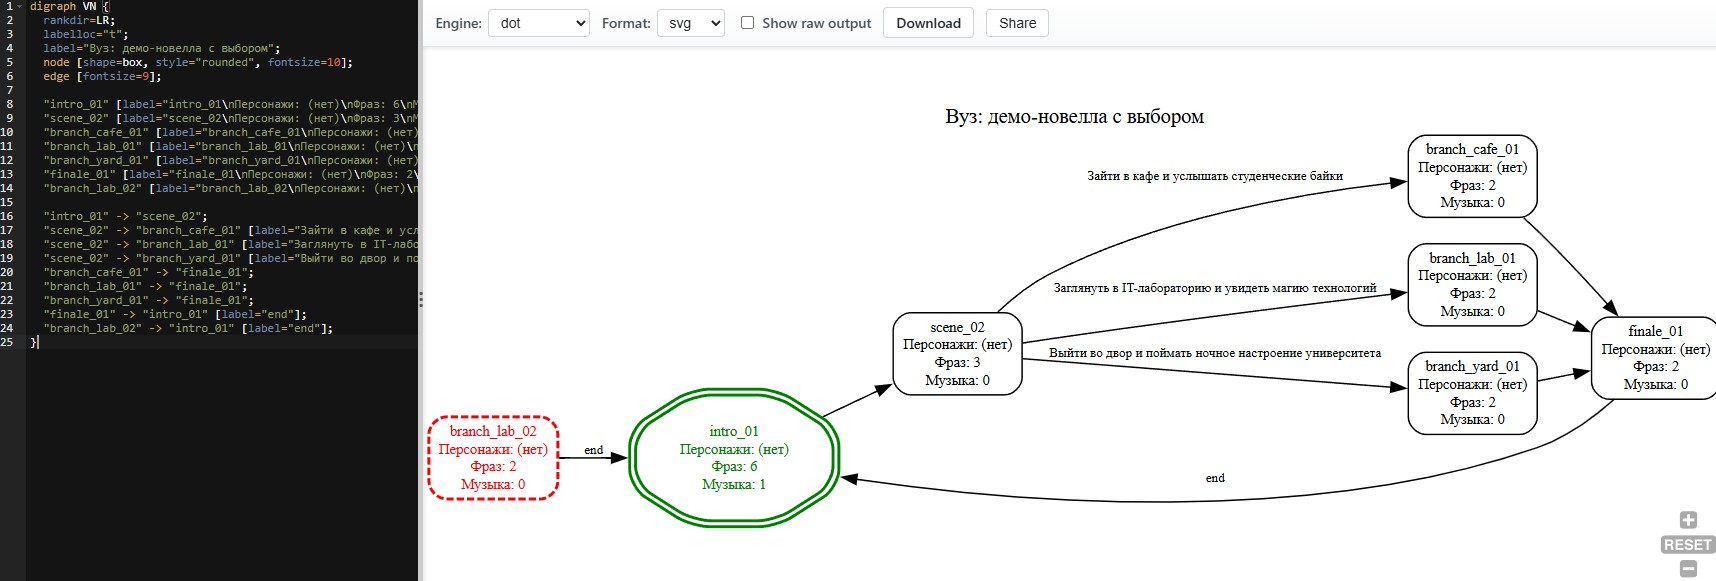
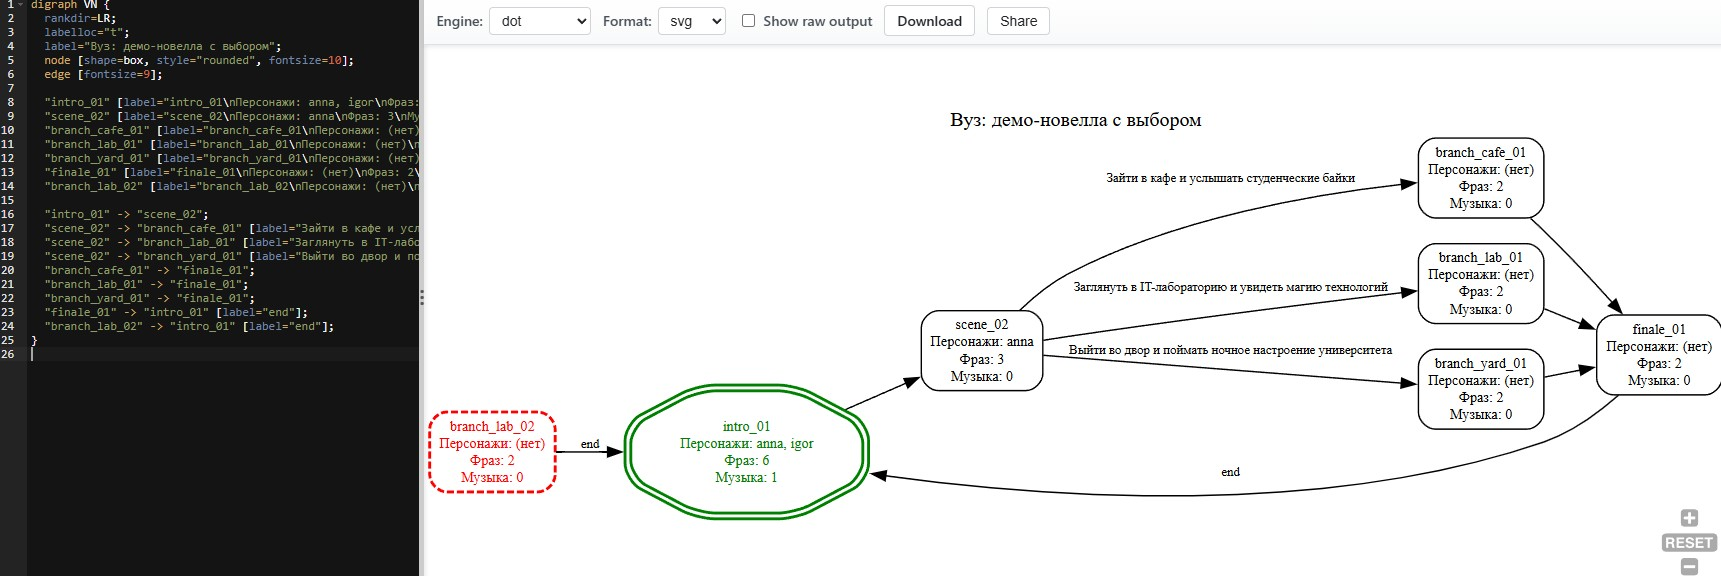
Исправлено отсутсвие указания персонажей на графе. Обновлены скрины для github

diff --git a/engine.js b/engine.js
@@ -2617,6 +2617,7 @@ function collectEnvironmentInfo() {
       if (!scene || !scene.id) continue;
 
       var actions = scene.actions || [];
+      console.log('[DOT scene start]', scene.id, actions);
 
       // --- метрики вершины ---
       var charSet = {};
@@ -2632,8 +2633,16 @@ function collectEnvironmentInfo() {
         if (!act || !act.type) continue;
 
         if (act.type === "char") {
-          var chId = extractAliasId(act.src, "ch");
-          if (chId) charSet[chId] = true;
+          console.log('[DOT char action]', {
+            sceneId: scene.id,
+            act: act,
+            charId: act.charId
+          });
+
+          if (act.charId) {
+            charSet[act.charId] = true;
+            console.log('[DOT char added]', scene.id, Object.keys(charSet));
+          }
         }
 
         if (act.type === "say") sayCount++;
@@ -2684,11 +2693,24 @@ function collectEnvironmentInfo() {
     for (var n = 0; n < nodes.length; n++) {
       var node = nodes[n];
       var chars = node.characters.length ? node.characters.join(", ") : "(нет)";
+
+      console.log('[DOT node chars]', {
+        nodeId: node.id,
+        characters: node.characters,
+        charsText: chars
+      });
+
       var label =
         node.id + "\\n" +
         "Персонажи: " + chars + "\\n" +
         "Фраз: " + node.phraseCount + "\\n" +
         "Музыка: " + node.bgmCount;
+
+      console.log('[DOT final label]', {
+        nodeId: node.id,
+        chars: chars,
+        label: label
+      });
 
       var nodeAttrs = 'label="' + dotEscape(label) + '"';
       // Стартовая сцена
